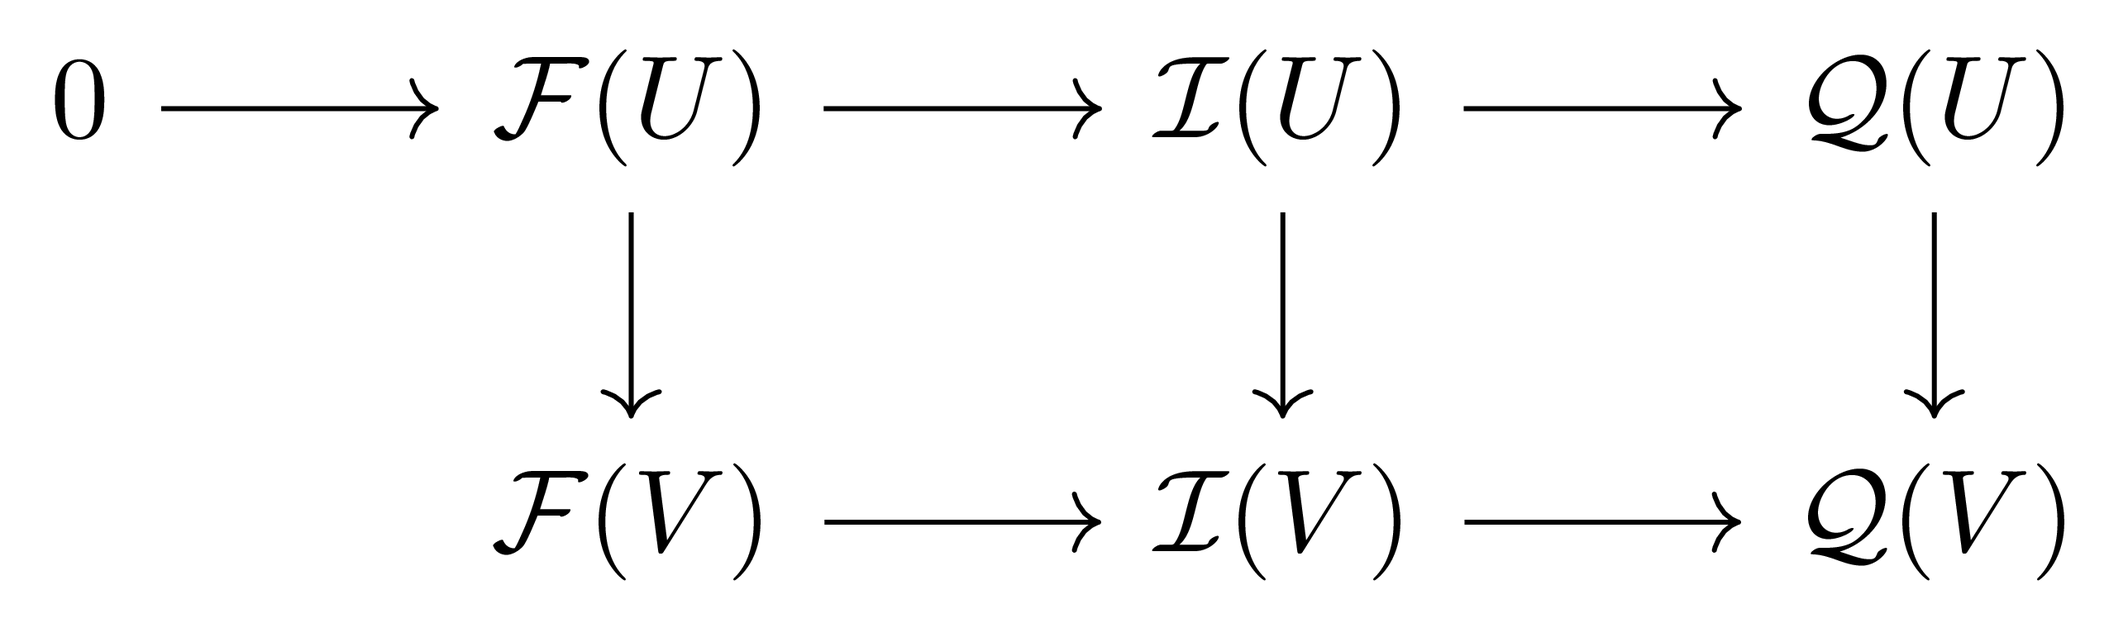
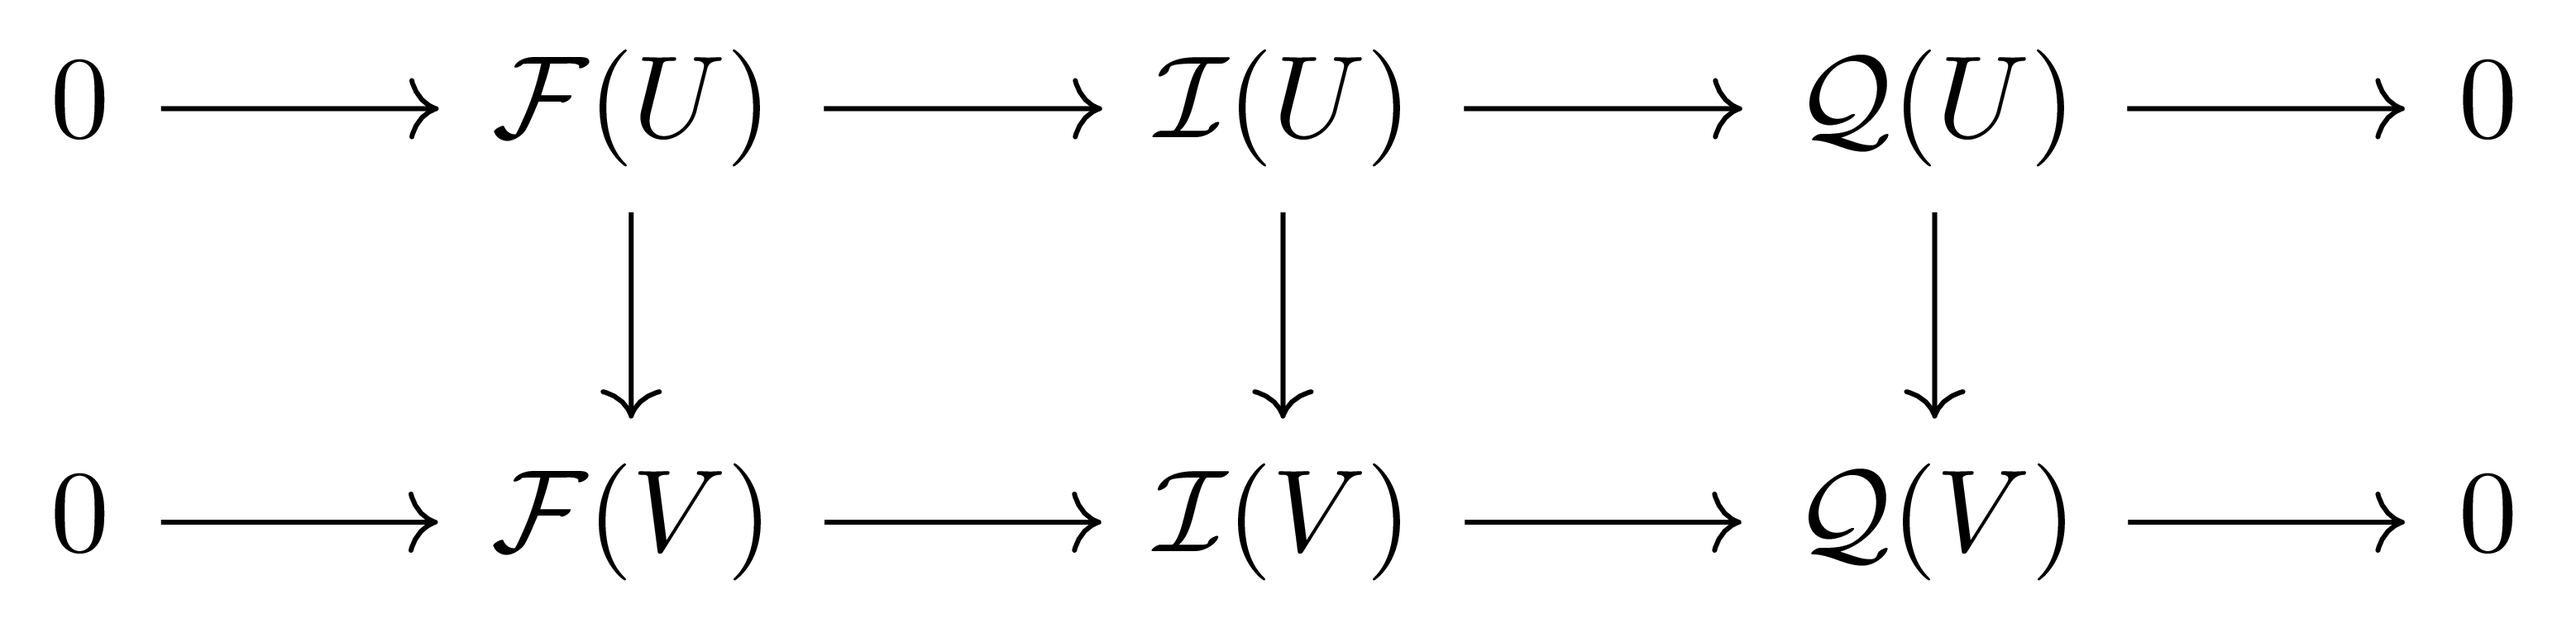
Openclaw Autosave
This is an autosave from OpenClaw. Major changes will be recorded manually with detailed commit message.

diff --git a/assets/diagrams/Math/Algebraic_Geometry/Algebraic_geometry.tex b/assets/diagrams/Math/Algebraic_Geometry/Algebraic_geometry.tex
@@ -9,8 +9,8 @@
 
 %% Flasque quotient commutative diagram (Sheaf_Cohomology-1.png)
 \begin{tikzcd}
-0 \arrow[r] & {\mathcal{F}(U)} \arrow[r] \arrow[d] & {\mathcal{I}(U)} \arrow[r] \arrow[d] & {\mathcal{Q}(U)} \arrow[d] \\
- & {\mathcal{F}(V)} \arrow[r] & {\mathcal{I}(V)} \arrow[r] & {\mathcal{Q}(V)}
+0 \arrow[r] & {\mathcal{F}(U)} \arrow[r] \arrow[d] & {\mathcal{I}(U)} \arrow[r] \arrow[d] & {\mathcal{Q}(U)} \arrow[r] \arrow[d] & 0 \\
+0 \arrow[r] & {\mathcal{F}(V)} \arrow[r] & {\mathcal{I}(V)} \arrow[r] & {\mathcal{Q}(V)} \arrow[r] & 0
 \end{tikzcd}
 
 \end{document}

diff --git a/_posts/Math/Algebraic_Geometry/ko/2026-04-05-Sheaf_Cohomology.md b/_posts/Math/Algebraic_Geometry/ko/2026-04-05-Sheaf_Cohomology.md
@@ -316,7 +316,7 @@ $$\Delta_X\hookrightarrow X\times X$$
 
 우리는 [정의 1](#def1)에서 sheaf cohomology를 injective resolution을 통해 정의하였으나, 일반적으로 injective resolution을 직접 계산하는 것은 어렵기에 이에 대한 해결책 중 하나로 Čech cohomology와 sheaf cohomology가 isomorphic하다는 앞선 결과 [정리 11](#thm11)을 사용하는 방법을 살펴보았다.
 
-이번 글에서 살펴볼 Godement resolution 또한 같은 문제에서 출발한다. 즉 sheaf cohomology를 일반적으로 계산하는 것은 매우 복잡한 일이므로, [정의 1](#def1)이 개념적으로 깔끔한 것에 비해 실용성은 다소 떨어진다는 것이다. 우리는 이제 구체적인 resolution을 하나 정의한다. 이는 injective resolution은 아니지만, flasque resolution이며 우리의 사용에서는 이것으로 충분하다. 
+이번 섹션에서 살펴볼 Godement resolution 또한 같은 문제에서 출발한다. 즉 sheaf cohomology를 일반적으로 계산하는 것은 매우 복잡한 일이므로, [정의 1](#def1)이 개념적으로 깔끔한 것에 비해 실용성은 다소 떨어진다는 것이다. 우리는 이제 구체적인 resolution을 하나 정의한다. 이는 injective resolution은 아니지만, flasque resolution이며 우리의 사용에서는 이것으로 충분하다. 
 
 <div class="definition" markdown="1">
 
@@ -392,31 +392,30 @@ $$0 \rightarrow \mathcal{F}\rightarrow\mathcal{I}\rightarrow\mathcal{Q}\rightarr
 
 ![Commutative diagram]({{ site.baseurl }}/assets/images/Math/Algebraic_Geometry/Sheaf_Cohomology-1.png){:style="width:20em" class="invert" .align-center}
 
-에서, $$\mathcal{F}$$는 가정에 의해 flasque이며 $$\mathcal{I}$$는 injective이므로 flasque이다. 따라서 앞선 두 개의 restriction map들이 surjective이고 이로부터 
-
-을 생각하자. $$\mathcal{F}$$는 flasque이므로 $$\mathcal{F}(U) \to \mathcal{F}(V)$$는 surjective이고, $$\mathcal{I}$$는 injective sheaf이므로 [보조정리 9](#lem9)에 의해 flasque이어서 $$\mathcal{I}(U) \to \mathcal{I}(V)$$ 역시 surjective이다. Diagram chase로부터 $$\mathcal{Q}(U) \to \mathcal{Q}(V)$$도 surjective임을 알 수 있다. 따라서 $$\mathcal{Q}$$는 flasque이다.
+에서 diagram chase를 하면 된다. 여기서 $$\mathcal{F}$$는 가정에 의해 flasque이며 $$\mathcal{I}$$는 injective이므로 flasque이다. 이제 임의의 $$s\in \mathcal{Q}(V)$$에 대하여, $$\mathcal{I}(V)\rightarrow \mathcal{Q}(V)$$가 surjective이므로 $$s$$를 $$t\in \mathcal{I}(V)$$로 lift할 수 있으며, 다시 $$\mathcal{I}$$가 flasque임을 이용하여 $$t$$를 $$\overline{t}\in\mathcal{I}(U)$$로 올린 후 이를 $$\mathcal{Q}$$로 옮겨주어 $$\overline{s}\in \mathcal{Q}(U)$$를 정의하면 된다. 이제 $$\mathcal{Q}(U)$$에서의 원소 $$\overline{s}\vert_V-s$$는 $$\mathcal{F}(V)$$의 원소이고, 다시 $$\mathcal{F}$$의 flasqueness로부터 적당한 $$h\in \mathcal{F}(U)$$가 존재하여 $$h\vert_V=\overline{s}\vert_V-s$$이다. 이제 이로부터 $$\overline{s}-h$$는 정확히 $$s\in \mathcal{Q}(V)$$로 restrict하며 이로부터 $$\mathcal{Q}$$의 flasqueness를 얻는다. 
 
 이제 $$\Gamma(X, -)$$를 적용하여 long exact sequence
 
 $$0 \to \Gamma(X, \mathcal{F}) \to \Gamma(X, \mathcal{I}) \to \Gamma(X, \mathcal{Q}) \xrightarrow{\delta} H^1(X, \mathcal{F}) \to H^1(X, \mathcal{I}) = 0$$
 
-을 얻는다. $$\mathcal{I}$$가 injective이므로 $$H^1(X, \mathcal{I}) = 0$$이다. 따라서 $$H^1(X, \mathcal{F}) \cong \operatorname{coker}(\Gamma(X, \mathcal{I}) \to \Gamma(X, \mathcal{Q}))$$인데, $$\mathcal{Q}$$가 flasque이므로 $$\Gamma(X, \mathcal{I}) \to \Gamma(X, \mathcal{Q})$$가 surjective인 것을 보이면 충분하다. 임의의 $$s \in \Gamma(X, \mathcal{Q})$$를 잡자. $$\mathcal{I} \to \mathcal{Q}$$는 stalk에서 surjective이므로, 각 $$x \in X$$에 대하여 $$t_x \in \mathcal{I}(U_x)$$가 존재하여 $$t_x$$의 $$\mathcal{Q}$$에서의 상이 $$s\vert_{U_x}$$와 일치한다. $$\mathcal{I}$$가 flasque이므로 $$t_x$$를 $$T_x \in \Gamma(X, \mathcal{I})$$로 확장할 수 있다. $$T_x$$의 $$\mathcal{Q}$$에서의 상 $$\sigma_x$$는 $$s$$와 $$U_x$$에서 일치한다. 이제 $$\sigma_x - \sigma_y \in \Gamma(X, \mathcal{Q})$$를 생각하면, 이것은 $$U_x \cap U_y$$에서 0이므로 $$U_x \cap U_y$$ 위에서 $$\mathcal{F}$$의 section $$f_{xy}$$로 lifting할 수 있다. $$\mathcal{F}$$가 flasque이므로 $$f_{xy}$$를 $$f_x \in \mathcal{F}(U_x)$$로 확장한 뒤 $$T_x$$를 $$T_x - f_x$$로 교정하면, 교정된 $$T_x$$들이 모든 $$x$$에 대하여 $$\Gamma(X, \mathcal{Q})$$에서 $$s$$로 보내지는 것이 호환됨을 확인할 수 있다. 따라서 $$\Gamma(X, \mathcal{I}) \to \Gamma(X, \mathcal{Q})$$가 surjective이고 $$H^1(X, \mathcal{F}) = 0$$이다.
+을 얻자. 여기서 $$\mathcal{I}$$가 injective이므로 $$H^1(X, \mathcal{I}) = 0$$이다. 따라서
 
-이제 $$i \geq 2$$에 대하여 $$H^i(X, \mathcal{F}) = 0$$임을 induction으로 보인다. $$\mathcal{F}$$의 injective resolution에서 short exact sequence
+$$H^1(X, \mathcal{F}) \cong \coker(\Gamma(X, \mathcal{I}) \to \Gamma(X, \mathcal{Q}))$$
 
-$$0 \to \mathcal{F} \to \mathcal{I}^0 \to \mathcal{Q}^0 \to 0$$
+이며, 이것이 $$0$$이 된다는 것을 보이기 위해 우리는 $$\Gamma(X, \mathcal{I})\rightarrow \Gamma(X, \mathcal{Q})$$가 surjective임을 보여야 한다. 이를 위해 임의의 $$s\in \Gamma(X, \mathcal{Q})$$가 주어졌다 하자. 그럼 임의의 $$x\in X$$에 대하여, stalk 레벨에서는 $$\mathcal{I}\rightarrow \mathcal{Q}$$가 surjective하므로 각각의 $$x\in X$$마다 적당한 $$t_x\in \mathcal{I}_x$$가 존재하여 $$t_x$$가 $$s_x\in \mathcal{Q}_x$$로 가도록 할 수 있다. 이제 $$t_x$$의 한 representative를 택하여, $$t_x$$가 $$\mathcal{I}(U_x)$$의 원손
+인 것으로 생각하면 $$\mathcal{I}$$가 flasque이므로 이들 각각을 $$X$$에서의 global section $$T_x$$들로 확장할 수 있으며, 그럼 $$T_x\mid_{U_x}=s\mid_{U_x}$$이다. 
 
-을 생각하자. 앞서 보인 바와 같이 $$\mathcal{Q}^0$$은 flasque이다. Long exact sequence
+이제 $$T_x$$들의 $$\Gamma(X,\mathcal{Q})$$에서의 image를 $$S_x$$라 하자. 그럼 $$S_x-S_y$$는 $$U_x\cap U_y$$에서 identitcally zero이며, 따라서 이를 $$U_x\cap U_y$$ 위에서 $$\mathcal{F}$$의 section $$f_{xy}$$로 lift할 수 있다. 다시 $$\mathcal{F}$$의 flasqueness를 사용하면 이를 $$f_x\in \mathcal{F}(U_x)$$와 $$f_y\in \mathcal{F}(U_y)$$ 각각으로 확장할 수 있고, 그럼 이 상황에서 $$T_x$$를 $$T'_x=T_x-f_x$$들로 대체하면 이것이 compatibility condition을 만족하고 따라서 이들을 붙인 것이 $$s$$의 preimage인 것을 안다. 
 
-$$\cdots \to H^{i-1}(X, \mathcal{Q}^0) \xrightarrow{\delta} H^i(X, \mathcal{F}) \to H^i(X, \mathcal{I}^0) = 0$$
+마지막으로, long exact sequence에 의하여
 
-에서 $$\mathcal{I}^0$$이 injective이므로 $$H^i(X, \mathcal{I}^0) = 0$$이며, dimension shifting에 의해 $$H^i(X, \mathcal{F}) \cong H^{i-1}(X, \mathcal{Q}^0)$$이다. $$\mathcal{Q}^0$$가 flasque이므로 induction hypothesis로 $$H^{i-1}(X, \mathcal{Q}^0) = 0$$이고, 따라서 $$H^i(X, \mathcal{F}) = 0$$이다.
+$$H^i(X, \mathcal{F})\cong H^{i-1}(X, \mathcal{Q})$$
+
+이고, $$\mathcal{Q}$$가 flasque이므로 귀납법에 의하여 원하는 결과를 얻는다. 
 
 </details>
 
-[명제 16](#prop16)에 의하여 Godement resolution의 각 항 $$\mathcal{G}^p(\mathcal{F})$$는 flasque이므로 $$\Gamma(X, -)$$-acyclic이다. 즉, 모든 $$i > 0$$에 대해 $$H^i(X, \mathcal{G}^p(\mathcal{F})) = 0$$이다.
-
-이제 flasque resolution이면 충분하다는 것을 더 일반적인 형태로 정리할 수 있다.
+특히, [명제 16](#prop16)에 의하여 Godement resolution의 각 항 $$\mathcal{G}^p(\mathcal{F})$$는 flasque이므로 $$\Gamma(X, -)$$-acyclic이다. 즉, 모든 $$i > 0$$에 대해 $$H^i(X, \mathcal{G}^p(\mathcal{F})) = 0$$이다. 이제 결론을 내기 위해 우리가 필요한 것은 다음 결과이다. 
 
 <div class="proposition" markdown="1">
 
@@ -431,19 +430,23 @@ $$H^q(\Gamma(X, A^\bullet)) \cong H^q(X, \mathcal{F})$$
 <details class="proof" markdown="1">
 <summary>증명</summary>
 
-$$\mathcal{F}$$의 injective resolution $$0 \to \mathcal{F} \to \mathcal{I}^\bullet$$을 고정하자. Comparison theorem ([\[호몰로지 대수학\] §분해, ⁋정리 6](/ko/math/homological_algebra/resolutions#thm6))에 의해 acyclic resolution과 injective resolution 사이에 chain map $$f\colon A^\bullet \to \mathcal{I}^\bullet$$이 존재한다. $$f$$의 *mapping cone* $$C(f)^\bullet$$을 생각하자. 각 차수에서
+$$\mathcal{F}$$의 injective resolution $$0 \to \mathcal{F} \to \mathcal{I}^\bullet$$을 고정하자. Comparison theorem ([\[호몰로지 대수학\] §분해, ⁋정리 6](/ko/math/homological_algebra/resolutions#thm6))에 의해 acyclic resolution과 injective resolution 사이에 chain map $$f\colon \mathcal{A}^\bullet \to \mathcal{I}^\bullet$$이 존재한다. $$f$$의 *mapping cone* $$C(f)^\bullet$$을 생각하자. 각 차수에서
 
-$$C(f)^n = A^{n+1} \oplus \mathcal{I}^n$$
+$$C(f)^n = \mathcal{A}^{n+1} \oplus \mathcal{I}^n$$
 
-이며, $$\mathcal{I}^n$$는 injective이므로 [보조정리 9](#lem9)에 의해 flasque, 특히 $$\Gamma(X, -)$$-acyclic이다. $$C(f)^n \to A^{n+1}$$로의 projection으로부터 얻어지는 short exact sequence $$0 \to \mathcal{I}^n \to C(f)^n \to A^{n+1} \to 0$$에서, 양 끝 항이 $$\Gamma(X, -)$$-acyclic이므로 long exact sequence로부터 $$C(f)^n$$ 역시 $$\Gamma(X, -)$$-acyclic임을 알 수 있다.
+이며, $$\mathcal{I}^n$$는 injective이므로 [보조정리 9](#lem9)에 의해 flasque, 특히 $$\Gamma(X, -)$$-acyclic이다. 따라서 canonical short exact sequence
 
-한편 $$f$$는 quasi-isomorphism이므로 $$C(f)^\bullet$$은 exact complex이다. $$C(f)^\bullet$$의 각 항이 $$\Gamma(X, -)$$-acyclic이므로, exact한 sheaf complex에 $$\Gamma(X, -)$$를 적용한 것은 exact한 cochain complex를 준다. 즉 $$\Gamma(X, C(f)^\bullet)$$은 exact하다. 이것은 chain map
+$$0 \to \mathcal{I}^n \to C(f)^n \to \mathcal{A}^{n+1} \to 0$$
 
-$$\Gamma(X, f)\colon \Gamma(X, A^\bullet) \to \Gamma(X, \mathcal{I}^\bullet)$$
+를 생각하면 양 끝 항이 $$\Gamma(X, -)$$-acyclic이므로 long exact sequence로부터 $$C(f)^n$$ 역시 $$\Gamma(X, -)$$-acyclic임을 알 수 있다.
 
-이 quasi-isomorphism이라는 것과 동치이며, 따라서
+한편 $$f$$는 quasi-isomorphism이므로 $$C(f)^\bullet$$은 exact complex이다. ([\[호몰로지 대수학\] §긴 완전열, ⁋따름정리 9](/ko/math/homological_algebra/long_exact_sequence#cor9)) 뿐만 아니라 $$C(f)^\bullet$$은 위에서 살펴봤듯 $$\Gamma(X,-)$$-acyclic이므로, 여기에 $$\Gamma(X,-)$$를 취해 exact complex $$\Gamma(X, C(f)^\bullet)$$을 얻을 수 있으며 다시 [\[호몰로지 대수학\] §긴 완전열, ⁋따름정리 9](/ko/math/homological_algebra/long_exact_sequence#cor9)을 적용하여 이것을 chain map
 
-$$H^q(\Gamma(X, A^\bullet)) \cong H^q(\Gamma(X, \mathcal{I}^\bullet)) = H^q(X, \mathcal{F})$$
+$$\Gamma(X, f)\colon \Gamma(X, \mathcal{A}^\bullet) \to \Gamma(X, \mathcal{I}^\bullet)$$
+
+이 quasi-isomorphism이라는 조건으로 바꿔줄 수 있다. 이로부터
+
+$$H^q(\Gamma(X, \mathcal{A}^\bullet)) \cong H^q(\Gamma(X, \mathcal{I}^\bullet)) = H^q(X, \mathcal{F})$$
 
 을 얻는다.
 
@@ -451,35 +454,39 @@ $$H^q(\Gamma(X, A^\bullet)) \cong H^q(\Gamma(X, \mathcal{I}^\bullet)) = H^q(X, \
 
 [명제 17](#prop17)는 [명제 16](#prop16)과 함께 Godement resolution이 실제로 sheaf cohomology를 계산하기에 충분하다는 것을 보장한다. 즉, flasque resolution $$\mathcal{G}^\bullet(\mathcal{F})$$의 global section을 취하여 얻은 complex $$\Gamma(X, \mathcal{G}^\bullet(\mathcal{F}))$$의 cohomology가 $$H^\bullet(X, \mathcal{F})$$와 일치한다.
 
-
-
 ## Spectral Sequence
 
 Sheaf cohomology의 가장 강력한 응용 중 하나는 spectral sequence를 통한 cohomology의 계산이다. 우리는 이번 섹션에서 구체적인 계산으로 이 글을 마무리하기로 한다. 지금 소개하는 명제들은 일반적인 위상수학적 설정에서 성립하지만, 우리는 주로 variety와 quasi-coherent sheaf에의 적용을 염두에 둘 것이므로 이 카테고리에 담았다. 
 
-연속함수 $$f : X \to Y$$와 sheaf $$\mathcal{F}$$를 고정하고, [명제 15](#prop15)에서 구성한 $$\mathcal{F}$$의 Godement resolution $$\mathcal{G}^\bullet(\mathcal{F})$$을 잡자. 각각의 $$p\geq 0$$에 대하여, $$\mathcal{G}^p(\mathcal{F})$$의 direct image sheaf $$f_\ast \mathcal{G}^p(\mathcal{F})$$를 $$Y$$ 위에서 injectively resolve하여 다음의 injective resolution $$f_* \mathcal{G}^p(\mathcal{F}) \to \mathcal{J}^{p,\bullet}$$를 얻어낼 수 있다. Godement resolution의 각 항이 flasque이며 flasque sheaf의 direct image는 다시 flasque이므로, 각 $$f_* \mathcal{G}^p(\mathcal{F})$$는 flasque, 특히 $$\Gamma(Y, -)$$-acyclic이다. 이로부터 double complex
+연속함수 $$f : X \to Y$$와 sheaf $$\mathcal{F}$$를 고정하자. $$\mathcal{F}$$의 Godement resolution $$\mathcal{G}^\bullet(\mathcal{F})$$을 생각하면, 각각의 $$p\geq 0$$에 대해 $$\mathcal{G}^p(\mathcal{F})$$의 direct image sheaf $$f_\ast\mathcal{G}^p(\mathcal{F})$$의 injective resolution
 
-$$K^{p,q} = \Gamma(Y, \mathcal{J}^{p,q})$$
+$$0\rightarrow f_\ast \mathcal{G}^p(\mathcal{F})\rightarrow \mathcal{J}^{p,\bullet}$$
 
-를 정의할 수 있다. 여기서 $$q$$-방향의 differential은 $$\mathcal{J}^{p,\bullet}$$의 resolution differential이고, $$p$$-방향의 differential은 $$\mathcal{G}^\bullet(\mathcal{F})$$에서 유도된 것이다. 
+을 택할 수 있다. Flasque sheaf의 direct image가 flasque sheaf임은 정의에 의해 자명하므로, $$f_\ast \mathcal{G}^p(\mathcal{F})$$들 각각은 특히 [명제 16](#prop16)에 의해 $$\Gamma(Y,-)$$-acyclic이며 이로부터 double complex
 
-이제 다시 [\[호몰로지 대수학\] §스펙트럼 열, ⁋예시 11](/ko/math/homological_algebra/spectral_sequences#ex11)을 따라 두 가지 filtration을 각각 걸어주자. 우선 $$p$$-filtration, 즉 $F^s = \bigoplus_{p \geq s} K^{p,\bullet}$로 정의되는 filtration의 경우이다. 이때 graded piece는 $F^s/F^{s+1} \cong K^{s,\bullet}$이며, 먼저 $$q$$-방향의 cohomology를 취하므로
+$$K^{p,q}=\Gamma(Y, \mathcal{J}^{p,q})$$
+
+이 잘 정의된다는 것을 안다. 이 때, $$q$$ 방향 differential은 $$\mathcal{J}^{p,\bullet}$$으로부터, $$p$$ 방향 differential은 $$\mathcal{G}^\bullet(\mathcal{F})$$와 [\[호몰로지 대수학\] §분해, ⁋정리 6](/ko/math/homological_algebra/resolutions#thm6)로부터 유도되는 것이다. 
+
+이제 이 double complex의 total complex와 자연스러운 filtration들로 이루어진 spectral sequence를 생각하자. 우선 $$p$$ 방향 filtration은 $$q$$ 방향의 cohomology를 우선 취하는 것으로, $$E_1$$ page는
 
 $$E_1^{p,q}=H^q(K^{p,\bullet})$$
 
-이다. 그런데 $$\mathcal{J}^{p,\bullet}$$은 $$f_\ast \mathcal{G}^p(\mathcal{F})$$의 injective resolution이므로, $$K^{p,\bullet}=\Gamma(Y, \mathcal{J}^{p,\bullet})$$의 cohomology는 $$H^q(Y, f_\ast \mathcal{G}^p(\mathcal{F}))$$를 계산한다. 앞서 언급한 대로 $$f_\ast \mathcal{G}^p(\mathcal{F})$$는 flasque이므로 $$\Gamma(Y, -)$$-acyclic이고, $$q>0$$일 경우
-
-$$H^q(Y, f_\ast \mathcal{G}^p(\mathcal{F}))=0$$
-
-이 성립하며, 따라서 $$E_2$$ page
+으로 주어지며 이 때 $$K^{p,\bullet}=J^{p,\bullet}$$은 $$f_\ast \mathcal{G}^p(\mathcal{F})$$의 injective resolution이므로 이는 정확히 cohomology $$H^1(Y, f_\ast \mathcal{G}^p(\mathcal{F}))$$를 계산하는 것이다. 이 때, $$f_\ast \mathcal{G}^p(\mathcal{F})$$는 flasque이므로 $$\Gamma(Y,-)$$-acyclic이고 따라서 $$q>0$$에서는 cohomology가 모두 사라져 $$E_2$$ page는
 
 $$E_2^{p,q}=\begin{cases}H^p(X, \mathcal{F})&\text{if $q=0$}\\0&\text{otherwise}\end{cases}$$
 
-에서 spectral sequence가 stabilize하여 total cohomology는 $$H^\bullet(X, \mathcal{F})$$가 됨을 안다. 한편 $$q$$-filtration, 즉 $F'^t = \bigoplus_{q \geq t} K^{\bullet,q}$로 정의되는 filtration의 경우이다. 이때 먼저 $$p$$-방향의 cohomology를 취하면, 각 $$q$$에 대하여 열 $$K^{\bullet,q}$$의 $$p$$-방향 cohomology는 $f_\ast \mathcal{G}^\bullet(\mathcal{F})$에서 유도된 complex의 $q$-번째 항에서의 cohomology, 즉 $$R^q f_\ast \mathcal{F}$$의 injective resolution의 $$q$-번째 항을 계산하게 된다. 따라서 $$E_2$$ page는
+이다. 
+
+한편 $$q$$-filtration, 즉 total degree $$n$$에 대해 $$F^q T^n = \bigoplus_{r \geq q} K^{n-r, r}$$로 정의되는 filtration을 생각하면 먼저 $$p$$ 방향 cohomology를 취하게 되며, 이 때
+
+$$E_1^{p,q}=H^p(K^{\bullet, q})$$
+
+이다. 여기서 $$K^{\bullet,q}$$는 고정된 $$q$$에 대해 $$p$$ 방향의 complex로, 그 differential은 $$f_\ast \mathcal{G}^\bullet(\mathcal{F})$$의 degree $$q$$ 성분에 의해 주어진다. 따라서 $$H^p(K^{\bullet, q})$$는 $$f_\ast \mathcal{F}$$의 injective resolution에서 $$q$$번째 위치를 고정한 뒤 $$p$$ 방향으로 cohomology를 취한 것이며, 이는 $$R^q f_\ast \mathcal{F}$$에 대한 sheaf cohomology를 계산하는 것과 같다. $$E_2$$ page는
 
 $$E_2^{p,q}=H^p(Y, R^q f_\ast \mathcal{F})$$
 
-가 됨을 안다. 따라서 다음을 얻는다.
+가 된다. 따라서 다음을 얻는다.
 
 <div class="proposition" markdown="1">
 
